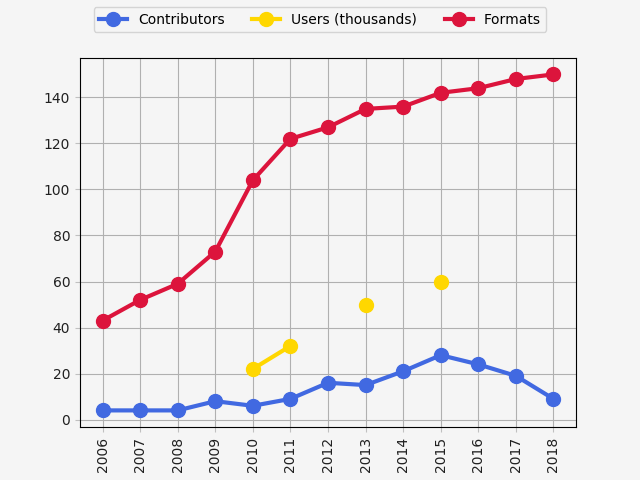
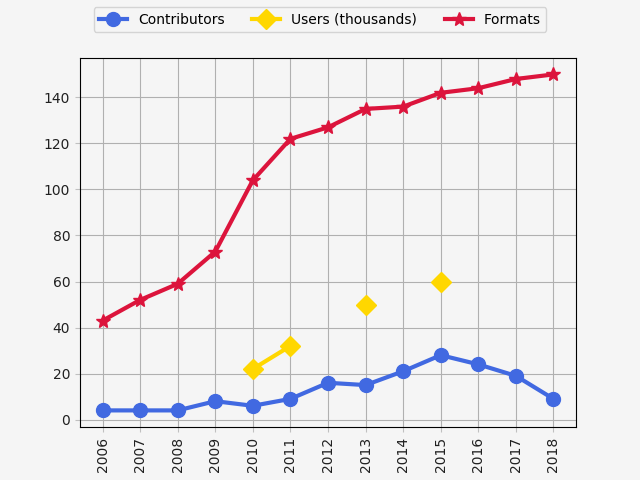
Use a different marker for each line, so we don't rely upon colors

diff --git a/2018/Users-Meeting/Introduction-to-Bio-Formats/figures.py b/2018/Users-Meeting/Introduction-to-Bio-Formats/figures.py
@@ -19,10 +19,10 @@ plot.tick_params('both', color=linecolor, labelcolor='#202020')
 plot.plot('Year', 'Contributors', data=df, marker='o', color='royalblue')
 
 # users
-plot.plot('Year', 'Users (thousands)', data=df, marker='o', color='gold')
+plot.plot('Year', 'Users (thousands)', data=df, marker='D', color='gold')
 
 # formats
-plot.plot('Year', 'Formats', data=df, marker='o', color='crimson')
+plot.plot('Year', 'Formats', data=df, marker='*', color='crimson')
 
 plot.figlegend(loc='upper center', ncol=3)
 plot.savefig('images/stats.png')
@@ -30,5 +30,3 @@ plot.savefig('images/stats.png')
 # TODO:
 # - classic chart:
 #   * make plots continuous
-#   * fill in remainder of .csv
-#   * use different markers for each plot (in case colors aren't distinguishable)
